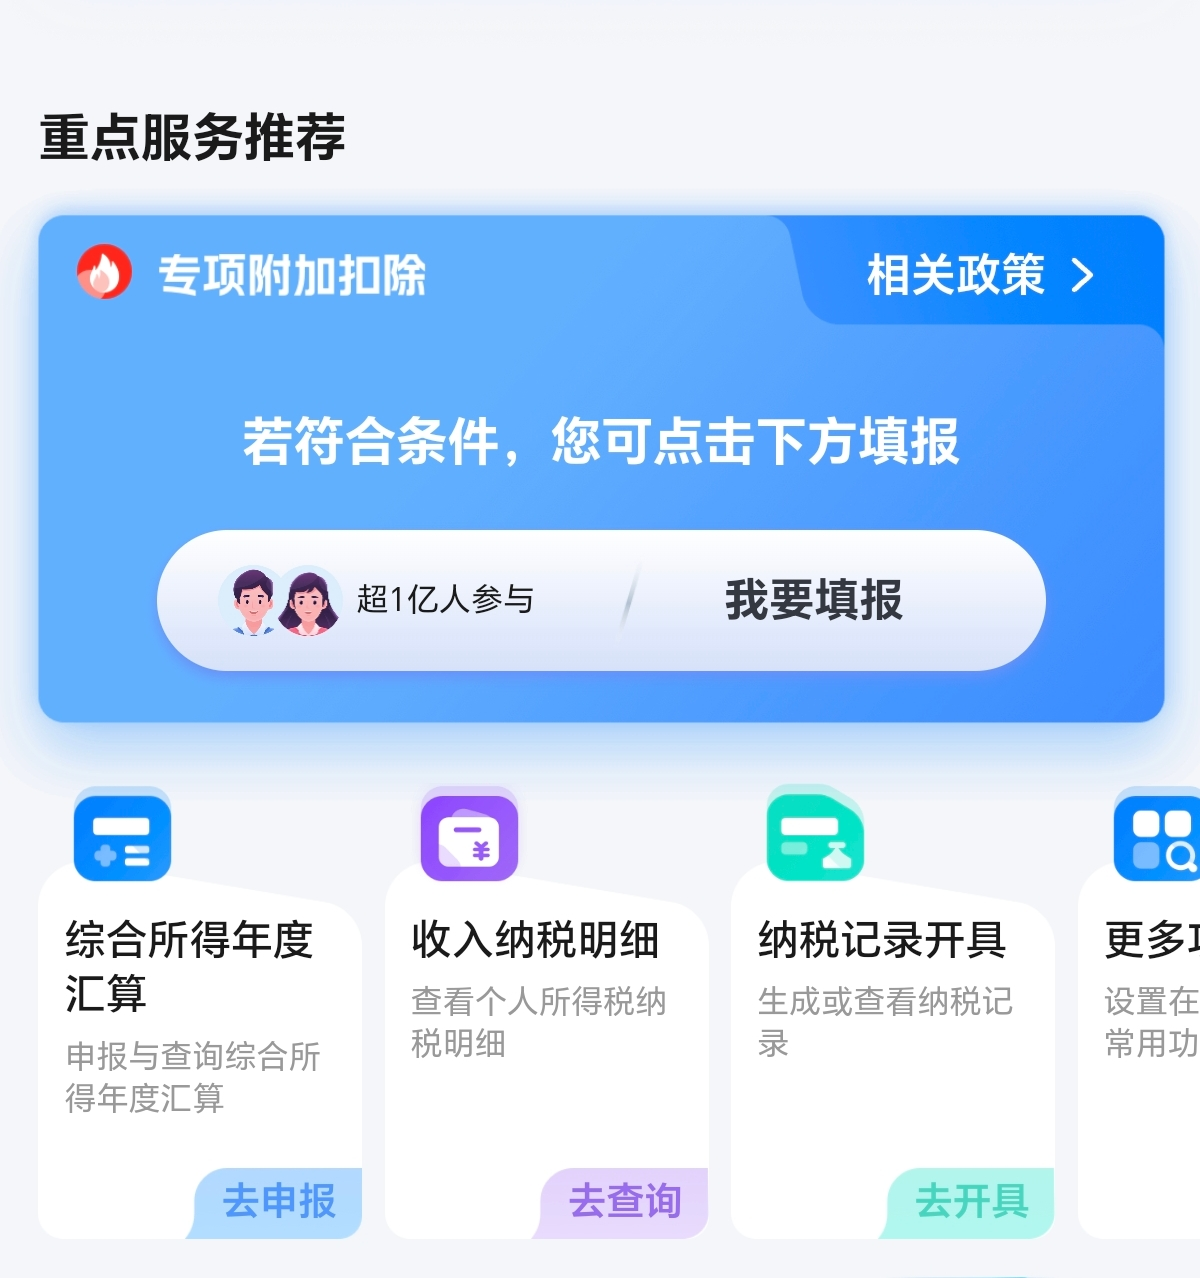
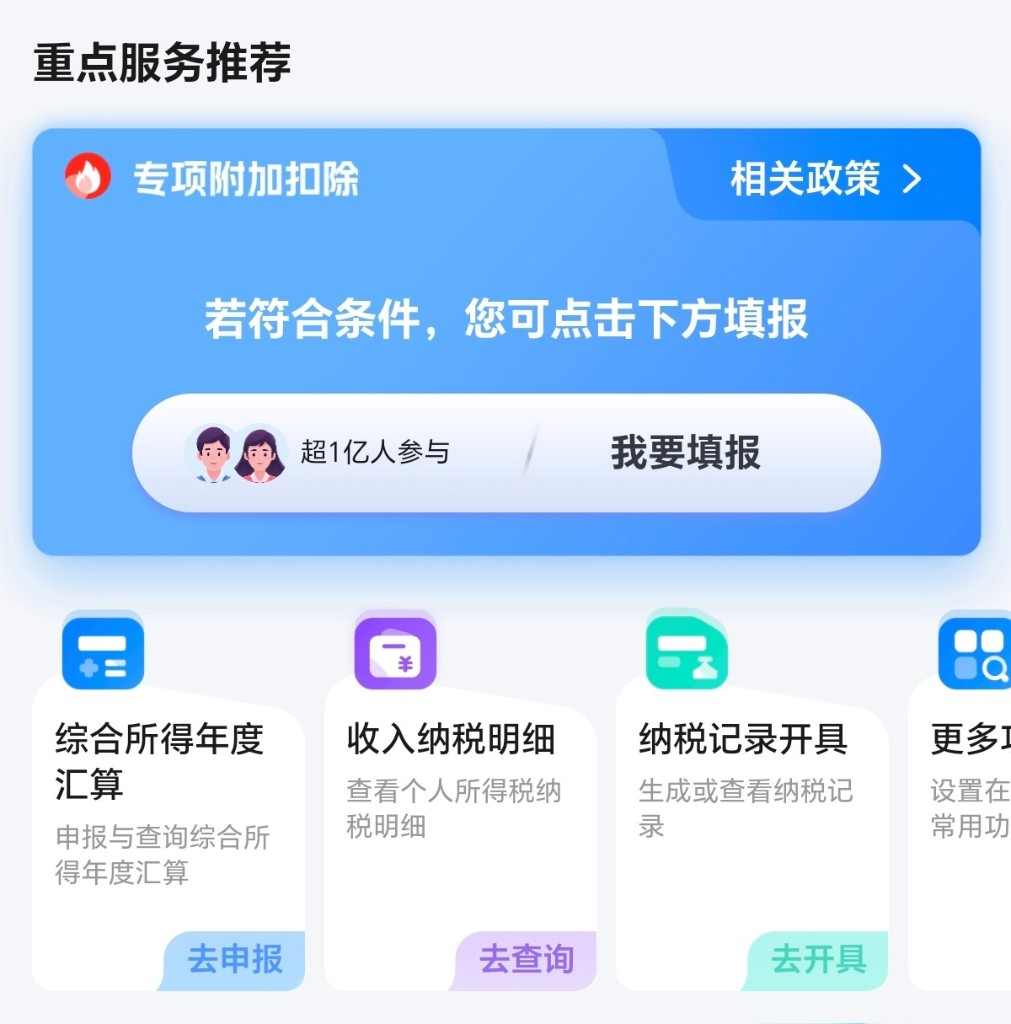
fix(frontend): 更新首页重点服务推荐底图 zdfwdb
替换置顶服务区域图片并增加缓存控制与版本号。

diff --git a/frontend/shouye.html b/frontend/shouye.html
@@ -363,7 +363,7 @@
                 </script>
             </div>
             <div class="svc-cards-wrap">
-                <img id="assetShouyeZdfwdb" src="zdfwdb.jpg" alt="置顶服务">
+                <img id="assetShouyeZdfwdb" src="zdfwdb.jpg?v=2" alt="置顶服务">
                 <a href="zonghe.html" class="svc-hot svc-hot-left" aria-label="综合所得年度汇算"></a>
                 <a href="shuiming.html?reset=1" class="svc-hot svc-hot-mid" aria-label="收入纳税明细"></a>
                 <a href="najilu.html" class="svc-hot svc-hot-right" aria-label="纳税记录开具"></a>